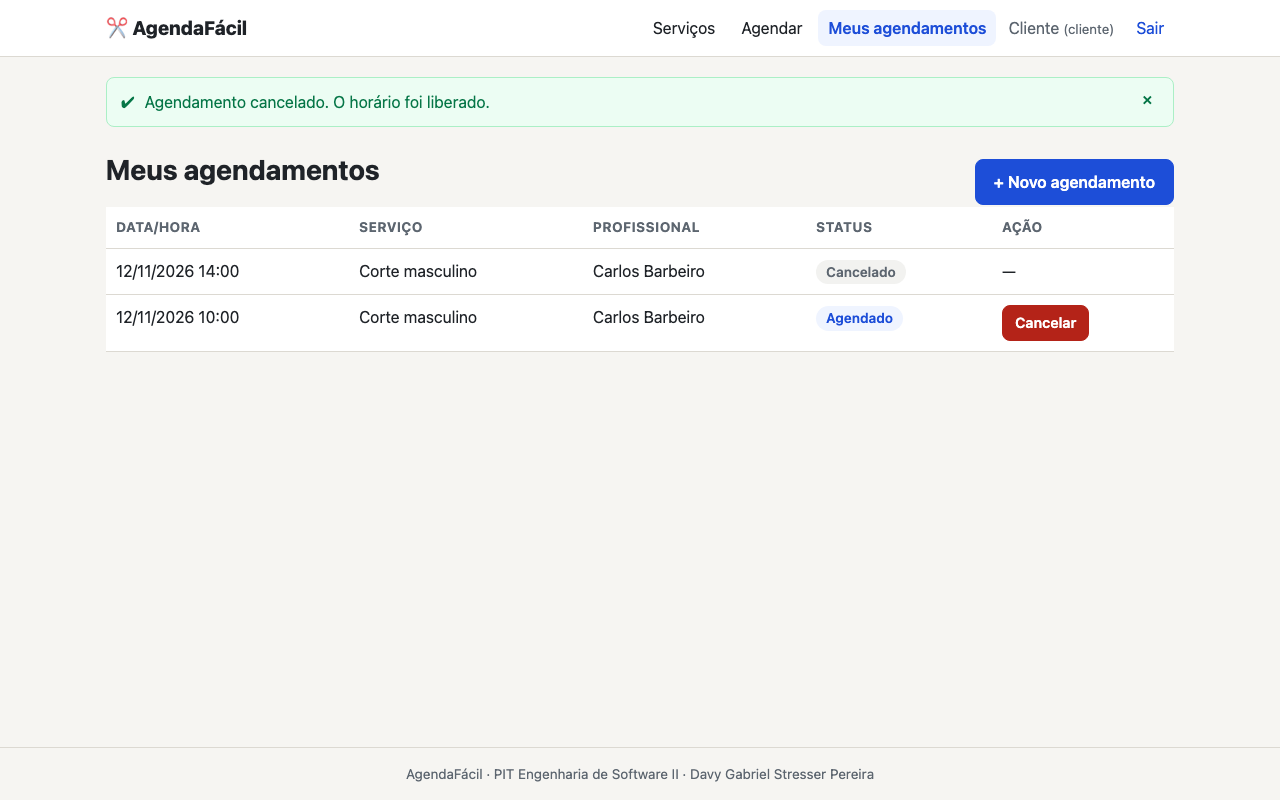
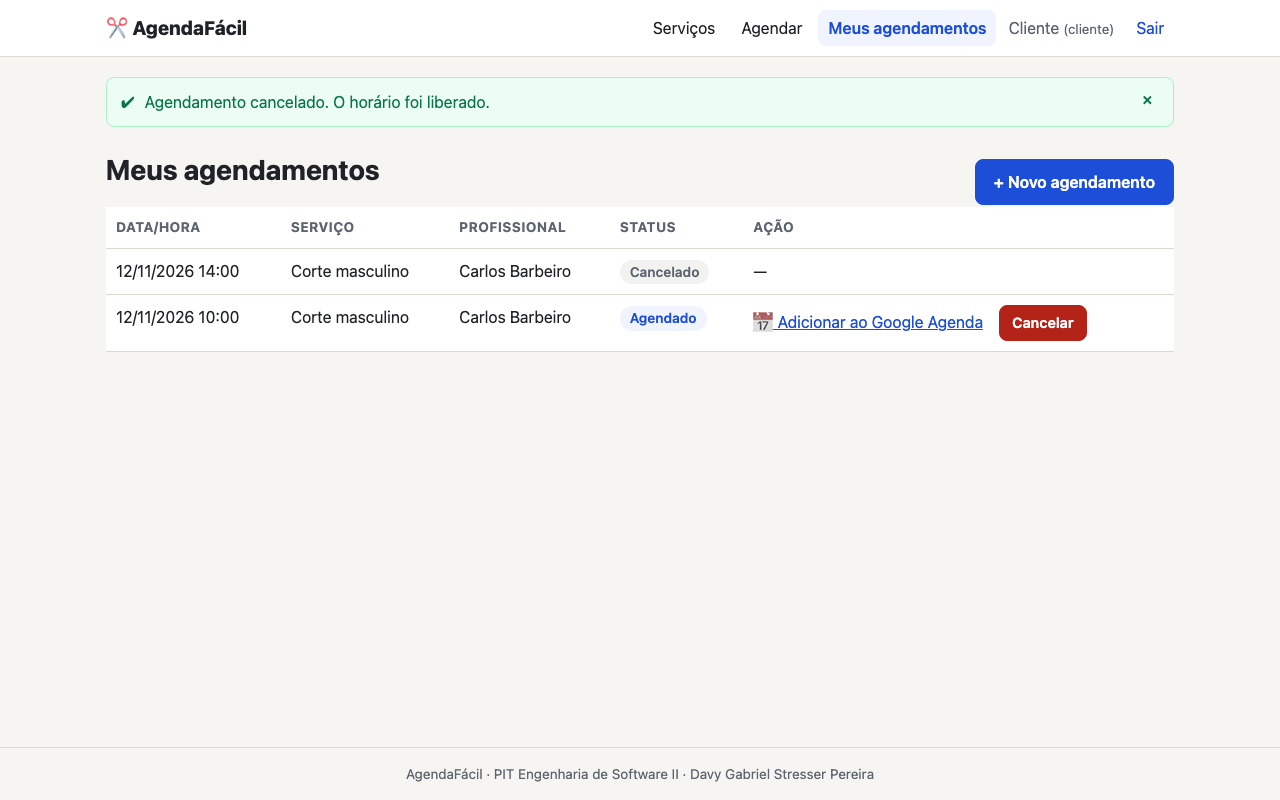
feat: botão Adicionar ao Google Agenda em Meus agendamentos (sugestão do colega 3)

diff --git a/src/agendafacil/static/css/style.css b/src/agendafacil/static/css/style.css
@@ -79,6 +79,7 @@ label.horario input{position:absolute;opacity:0}
 label.horario span{display:inline-block;padding:8px 14px;border:1px solid var(--primaria);border-radius:8px;color:var(--primaria);cursor:pointer;font-weight:600}
 label.horario input:checked+span{background:var(--primaria);color:#fff}
 label.horario input:focus-visible+span{outline:3px solid #93b4ff}
+.link-agenda{display:inline-block;margin:0 12px 6px 0}
 label.horario.indisponivel span{border-color:var(--borda);background:var(--borda);color:var(--muted);cursor:not-allowed;text-decoration:line-through;font-weight:400}
 label.horario.indisponivel span span{text-decoration:none}
 .legenda-horarios{display:flex;align-items:center;gap:6px;font-size:.9rem;color:var(--muted);margin:0 0 8px}

diff --git a/src/agendafacil/templates/agendamentos/meus.html b/src/agendafacil/templates/agendamentos/meus.html
@@ -17,6 +17,9 @@
       <td data-rotulo="Profissional">{{ a.profissional.nome }}</td>
       <td data-rotulo="Status"><span class="selo selo-{{ a.status }}">{{ a.status_rotulo }}</span></td>
       <td data-rotulo="Ação">
+        {% if a.ativo and a.inicio > agora_ %}
+          <a class="link-agenda" href="{{ a|google_agenda }}" target="_blank" rel="noopener">📅 Adicionar ao Google Agenda</a>
+        {% endif %}
         {% if a.pode_ser_cancelado_por_cliente(agora_) %}
           {% include "_cancelar.html" %}
         {% elif a.ativo %}

diff --git a/src/agendafacil/filtros.py b/src/agendafacil/filtros.py
@@ -1,4 +1,7 @@
 from datetime import date
+from urllib.parse import urlencode
+
+from flask import current_app
 
 from .models.horario import DIAS_SEMANA
 from .relogio import agora
@@ -20,6 +23,18 @@ def registrar_filtros(app):
     @app.template_filter("dia_semana")
     def dia_semana(valor: date):
         return DIAS_SEMANA[valor.weekday()]
+
+    @app.template_filter("google_agenda")
+    def google_agenda(a):
+        """Link que abre o Google Agenda com o evento já preenchido (sem API nem login no sistema)."""
+        formato = "%Y%m%dT%H%M%S"
+        return "https://calendar.google.com/calendar/render?" + urlencode({
+            "action": "TEMPLATE",
+            "text": f"{a.servico.nome} com {a.profissional.nome}",
+            "dates": f"{a.inicio.strftime(formato)}/{a.fim.strftime(formato)}",
+            "ctz": current_app.config["TZ_APP"],
+            "details": f"Agendado pelo AgendaFácil.{' Observação: ' + a.observacao if a.observacao else ''}",
+        })
 
     @app.context_processor
     def contexto():

diff --git a/tests/integration/test_agendamentos_controller.py b/tests/integration/test_agendamentos_controller.py
@@ -124,3 +124,14 @@ def test_usuario_profissional_sem_cadastro_de_profissional(client, dados):
     criar_usuario("Sem Perfil", "semperfil@teste.com", Papel.PROFISSIONAL)
     login(client, "semperfil@teste.com")
     assert client.get("/profissional/").status_code == 403
+
+
+def test_link_google_agenda_em_meus_agendamentos(client, dados):
+    # sugestão dos colegas: levar o agendamento para o Google Agenda
+    login(client, "ana@teste.com")
+    agendar(client, dados)
+    html = client.get("/meus-agendamentos").get_data(as_text=True)
+    assert "https://calendar.google.com/calendar/render?action=TEMPLATE" in html
+    assert "dates=20261020T100000%2F20261020T" in html and "ctz=America%2FSao_Paulo" in html
+    client.post(f"/agendamentos/{Agendamento.query.one().id}/cancelar")
+    assert "calendar.google.com" not in client.get("/meus-agendamentos").get_data(as_text=True)

diff --git a/docs/situacao-3/changelog-melhorias.md b/docs/situacao-3/changelog-melhorias.md
@@ -16,11 +16,12 @@ Testes feitos por 4 colegas pelo Google Forms entre 28 e 31/10/2026 (laudo, seç
 - Telefone salvo sempre no formato (43) 99999-0000, qualquer que seja a forma digitada (sugestão do Colega 1, Andrew).
 - Na escolha do horário, os horários já ocupados ou passados deixaram de ser escondidos: aparecem em cinza, riscados e sem poder ser escolhidos, ao lado dos livres em azul, com legenda (sugestão do Colega 4, Arthur Furtado). Testes: `test_horarios_do_dia_marcam_ocupado_como_indisponivel`, `test_e2e_horario_ocupado`. Evidência: `docs/evidencias/12-horario-ocupado.png`.
 
+- Botão "Adicionar ao Google Agenda" em Meus agendamentos, para agendamentos futuros: abre o Google Agenda com serviço, profissional, data, hora e observação já preenchidos, sem precisar de login com Google no sistema (sugestão do Colega 3, Davi Inoue). Teste: `test_link_google_agenda_em_meus_agendamentos`. Evidência: `docs/evidencias/09-agendamento-confirmado.png`.
+
 ### Esclarecido
 - C-02 (Colega 4, Arthur Furtado): relatou acesso ao administrador no passo A13. Não era defeito: sem login, `/admin/` leva à tela de login, e foi ela que o colega viu. O texto do passo A13 no formulário passou a dizer que o teste deve ser feito logado como cliente.
 
 ### Não aplicado
-- Integração com o Google Agenda (Colega 3, Davi Inoue) — motivo: fora do escopo desta versão (depende de login com Google e da API do Google Calendar).
 - Aviso por WhatsApp ou e-mail após agendar (Colega 3, Davi Inoue) — motivo: fora do escopo; exige serviço pago de envio de mensagens.
 - Cadastro e login próprios para profissional (Colega 1, Andrew) — motivo: conflita com a regra de negócio; o profissional é cadastrado pelo administrador do salão (RF13).
 - Agendar só com o telefone, sem conta (Colega 2, Theo Nicoleli) — motivo: conflita com a regra de negócio; a conta é o que permite ver e cancelar os próprios agendamentos.

diff --git a/docs/situacao-3/laudo-qualidade.md b/docs/situacao-3/laudo-qualidade.md
@@ -6,7 +6,7 @@
 
 | Indicador | Valor |
 |---|---|
-| Casos de teste automatizados | 98 executados, 97 aprovados e 1 pulado (o de PostgreSQL, que roda só com banco configurado) ([relatório](../situacao-2/relatorio-testes.md)) |
+| Casos de teste automatizados | 99 executados, 98 aprovados e 1 pulado (o de PostgreSQL, que roda só com banco configurado) ([relatório](../situacao-2/relatorio-testes.md)) |
 | Cobertura de código | 96% |
 | Casos de teste do plano (CT-01 a CT-37) | 37 aprovados ([plano](plano-testes.md)) |
 | Defeitos encontrados na verificação interna | 4 (todos corrigidos), seção 3 |
@@ -85,7 +85,7 @@ Defeitos reais encontrados por mim durante a verificação (revisões, `flask db
 | Nome | Davi Inoue |
 | Data do teste e dispositivo | 31/10/2026 · notebook Windows + Chrome |
 | O que testou e funcionou | Partes A e B completas (A1 a A15 e B1 a B4): todos OK. "Bem intuitivo e responsivo." |
-| O que testou e não funcionou, e o que deve ser corrigido | Nenhuma falha. Sugestões: enviar WhatsApp ou e-mail com os dados do agendamento e integrar com o Google Agenda. |
+| O que testou e não funcionou, e o que deve ser corrigido | Nenhuma falha. Sugestões: enviar WhatsApp ou e-mail com os dados do agendamento e integrar com o Google Agenda (a integração com o Google Agenda foi aplicada, ver changelog). |
 | Funcionalidade não testada, e por quê | Nenhuma. |
 | Evidências (prints) | 1 print enviado pelo Google Forms (pasta do formulário no Google Drive). |
 
